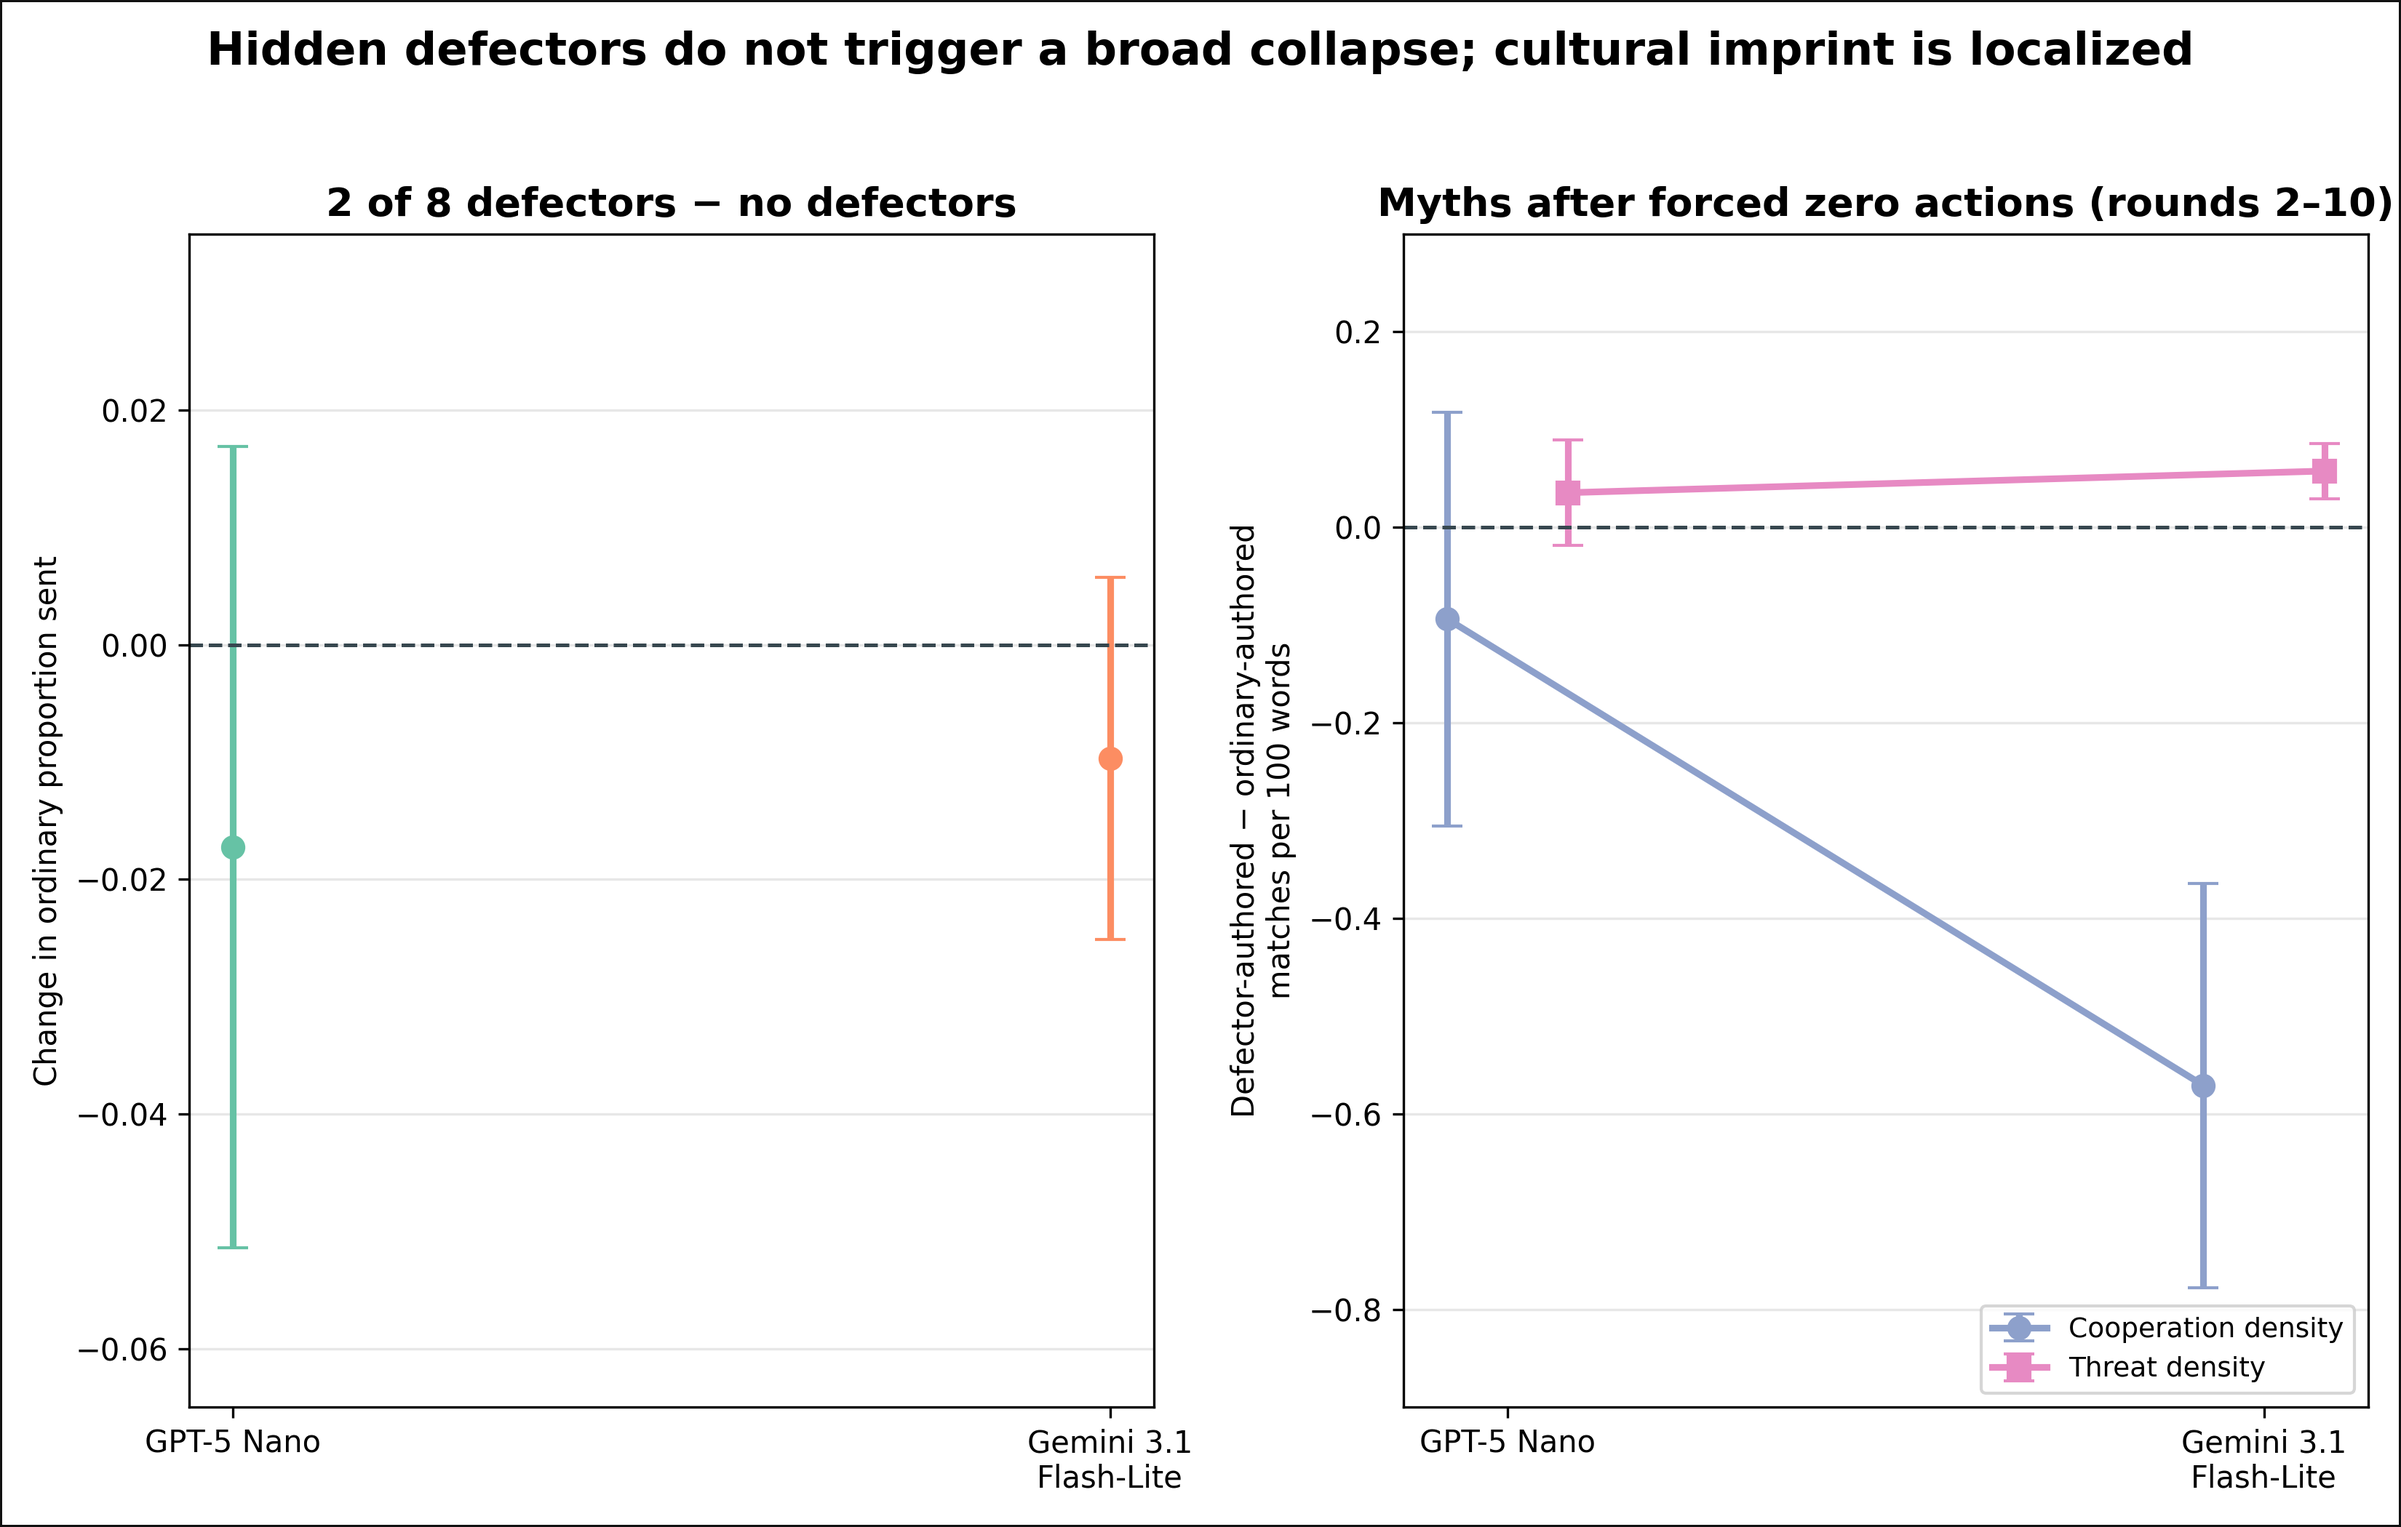
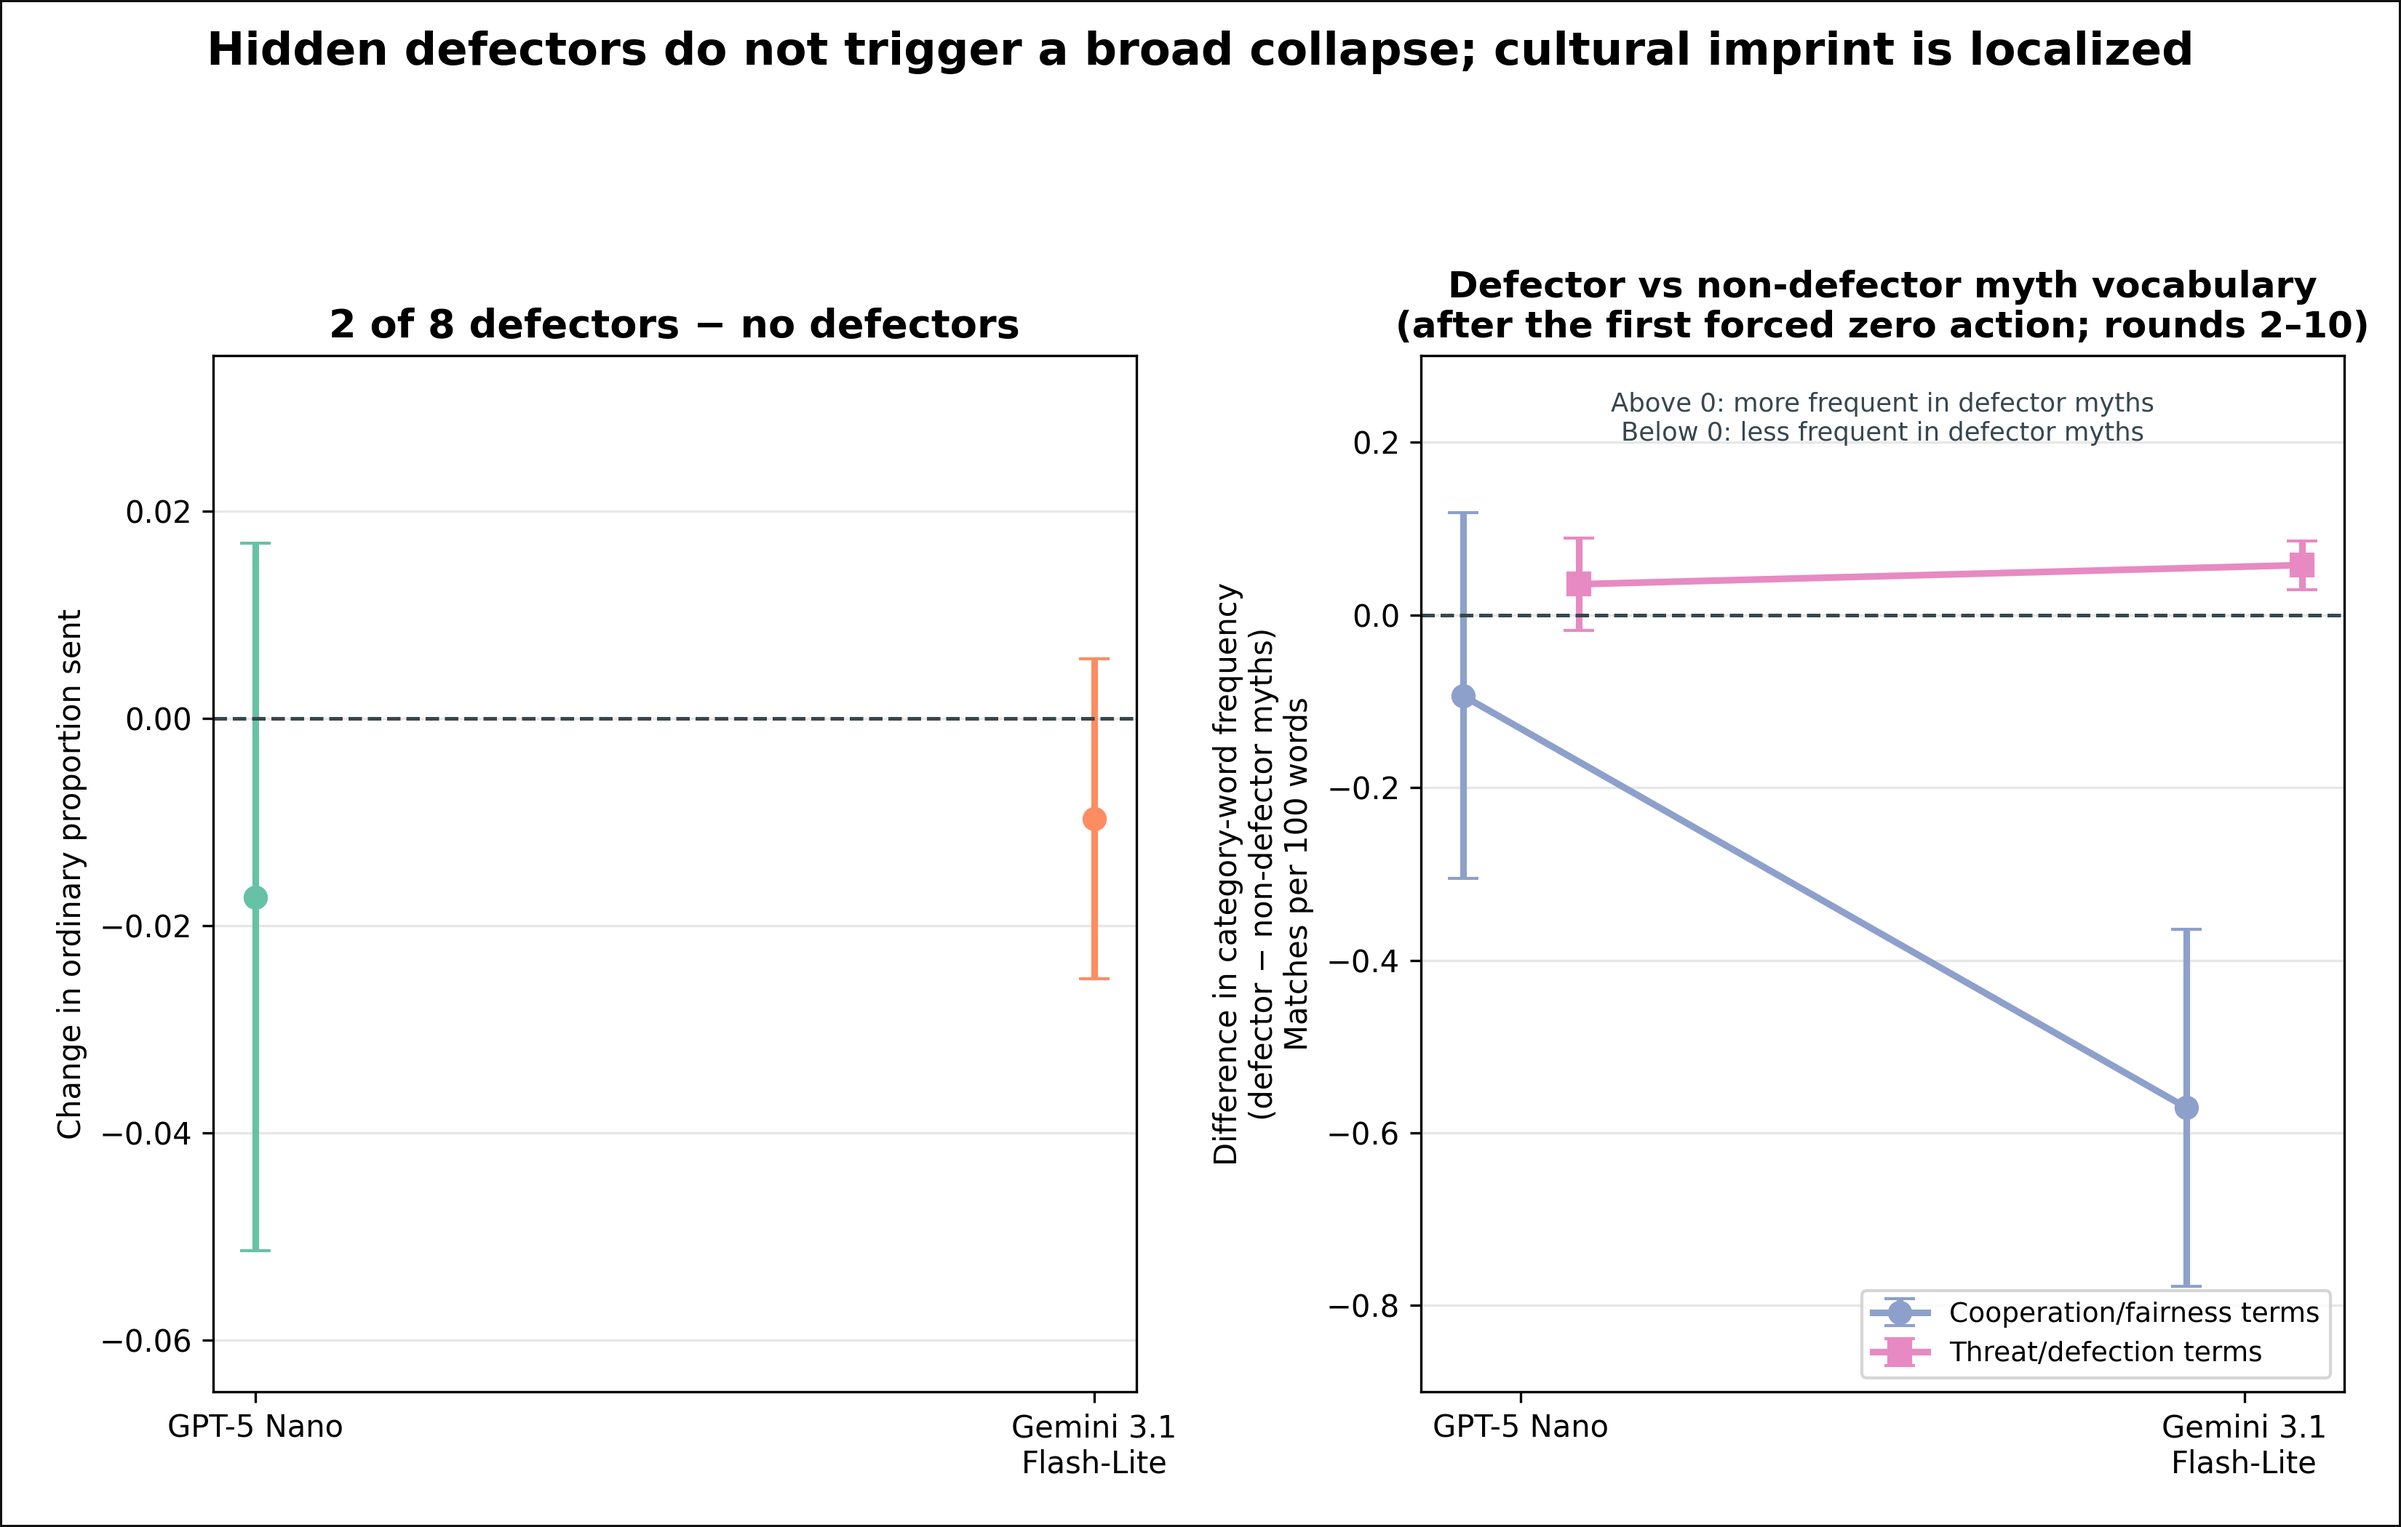
Clarify defector myth comparison labels

diff --git a/scripts/create_crossmodel_team_update_figures.py b/scripts/create_crossmodel_team_update_figures.py
@@ -149,8 +149,16 @@ def defector_spillovers(output_dir: Path) -> None:
     axes[0].set_ylim(-.065, .035)
     axes[0].grid(True, axis="y", alpha=.3)
     cultural_metrics = [
-        ("defector_myth_coop_density_rounds2_10", "Cooperation density", "o"),
-        ("defector_myth_threat_density_rounds2_10", "Threat density", "s"),
+        (
+            "defector_myth_coop_density_rounds2_10",
+            "Cooperation/fairness terms",
+            "o",
+        ),
+        (
+            "defector_myth_threat_density_rounds2_10",
+            "Threat/defection terms",
+            "s",
+        ),
     ]
     offsets = [-.08, .08]
     for metric_index, (metric, metric_label, marker) in enumerate(cultural_metrics):
@@ -173,12 +181,33 @@ def defector_spillovers(output_dir: Path) -> None:
     axes[1].axhline(0, color=DARK, linestyle="--", linewidth=1.2)
     axes[1].set_xticks(range(2))
     axes[1].set_xticklabels(labels)
-    axes[1].set_ylabel("Defector-authored − ordinary-authored\nmatches per 100 words")
-    axes[1].set_title("Myths after forced zero actions (rounds 2–10)", fontsize=13, fontweight="bold")
+    axes[1].set_ylabel(
+        "Difference in category-word frequency\n"
+        "(defector − non-defector myths)\n"
+        "Matches per 100 words",
+        fontsize=10,
+    )
+    axes[1].set_title(
+        "Defector vs non-defector myth vocabulary\n"
+        "(after the first forced zero action; rounds 2–10)",
+        fontsize=12,
+        fontweight="bold",
+    )
+    axes[1].text(
+        0.5,
+        0.965,
+        "Above 0: more frequent in defector myths\n"
+        "Below 0: less frequent in defector myths",
+        transform=axes[1].transAxes,
+        ha="center",
+        va="top",
+        fontsize=8.5,
+        color=DARK,
+    )
     axes[1].set_ylim(-.9, .3)
     axes[1].legend(loc="lower right", fontsize=9)
     axes[1].grid(True, axis="y", alpha=.3)
-    fig.tight_layout(rect=(0, 0, 1, .95))
+    fig.tight_layout(rect=(0.01, 0.01, 0.99, .90))
     finish(fig, output_dir / "02_defector_spillovers.png")
     plt.close(fig)
 
